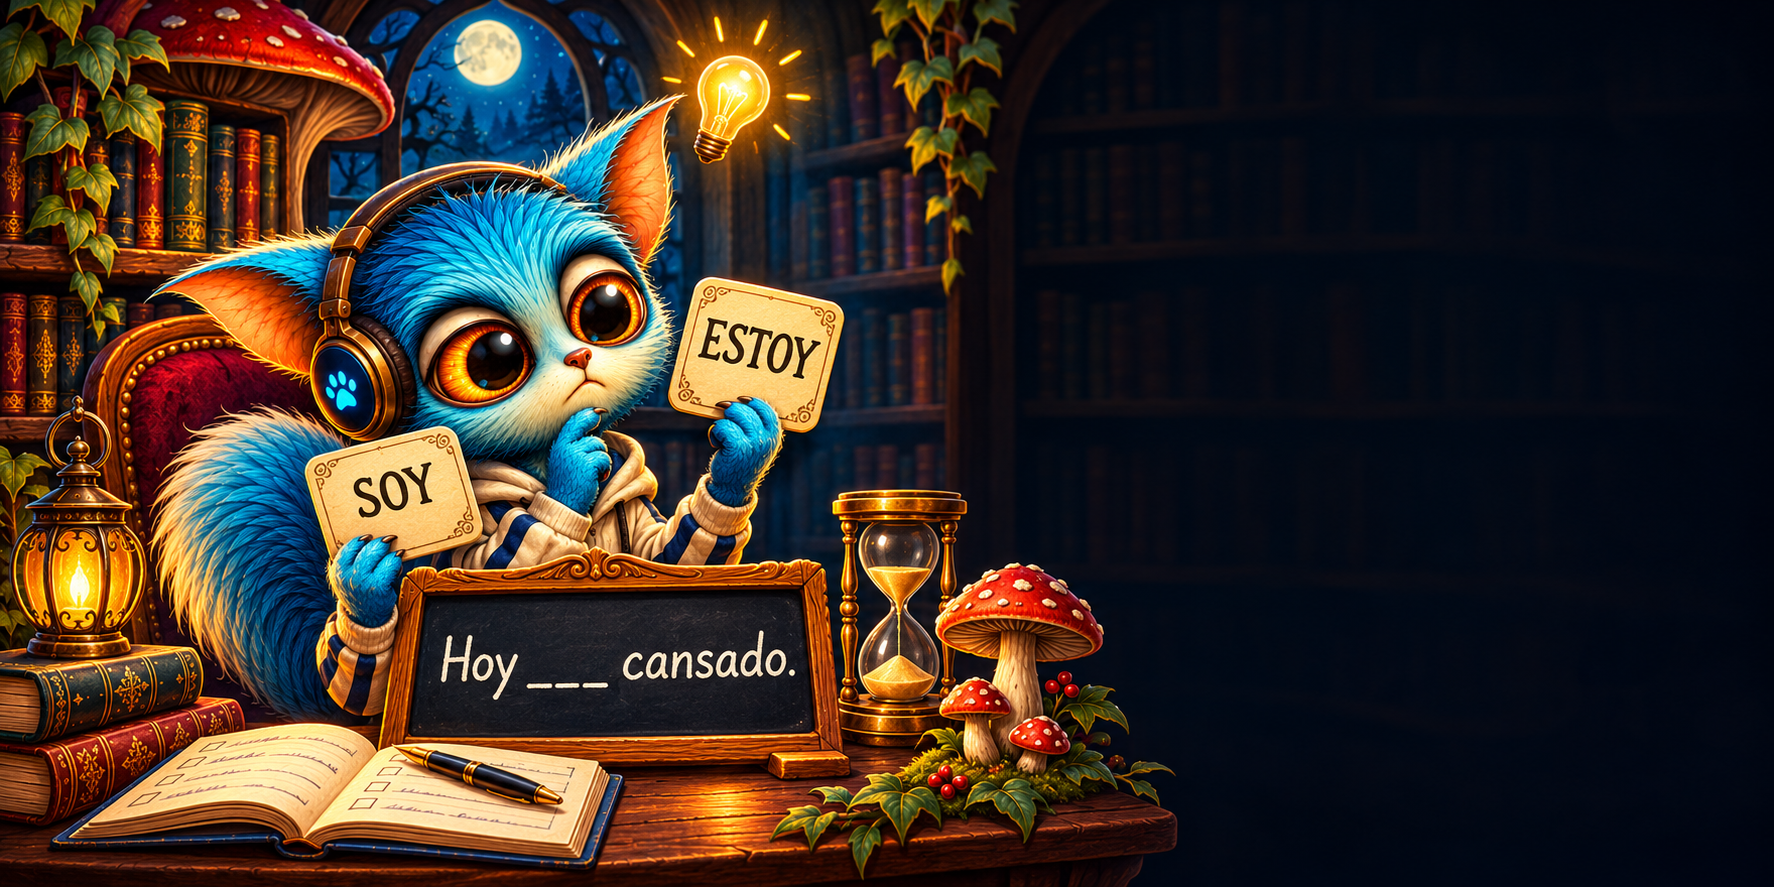
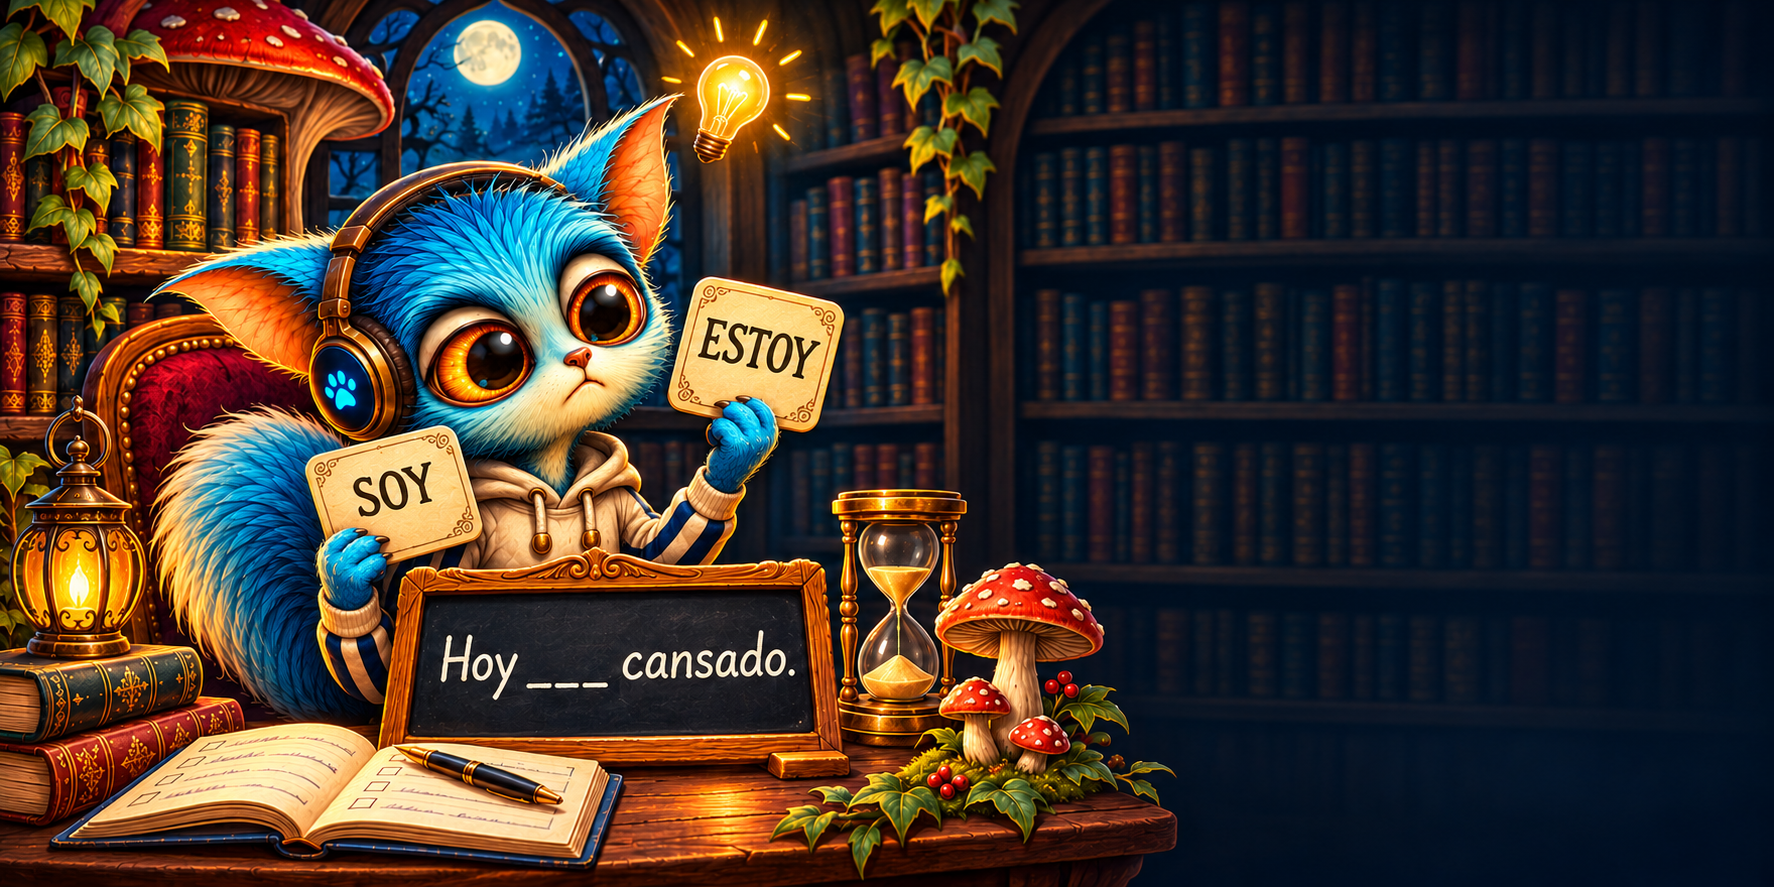
lesser changes

diff --git a/rdm-workshop.css b/rdm-workshop.css
@@ -178,3 +178,8 @@ header{position:relative}
 @media(min-width:651px){.page-banner[data-banner=rules] .page-banner-copy{right:10%}}
 .page-banner[data-banner=rules] .page-banner-copy{text-shadow:-2px -2px 0 #000,2px -2px 0 #000,-2px 2px 0 #000,2px 2px 0 #000,0 -2px 0 #000,0 2px 0 #000,-2px 0 0 #000,2px 0 0 #000,0 3px 12px #000}
 @media(min-width:651px){.page-banner[data-banner=rules] .page-banner-copy{padding-top:70px}}
+/* Lectura e ideas: title higher and a little to the left, outlined in the bougainvillea pink */
+@media(min-width:651px){.page-banner[data-banner=reading] .page-banner-copy{right:4%;justify-content:flex-start;padding-top:9%}}
+.page-banner[data-banner=reading] .page-banner-copy{text-shadow:-2px -2px 0 #d8145a,2px -2px 0 #d8145a,-2px 2px 0 #d8145a,2px 2px 0 #d8145a,0 -2px 0 #d8145a,0 2px 0 #d8145a,-2px 0 0 #d8145a,2px 0 0 #d8145a,0 3px 12px #000a}
+.page-banner[data-banner=reading] .page-banner-copy{text-shadow:-1px -1px 0 #d8145a,1px -1px 0 #d8145a,-1px 1px 0 #d8145a,1px 1px 0 #d8145a,0 -1px 0 #d8145a,0 1px 0 #d8145a,-1px 0 0 #d8145a,1px 0 0 #d8145a,0 0 8px #d8145acc,0 3px 12px #000a}
+.page-banner[data-banner=reading] .eyebrow{text-shadow:0 0 6px #d8145a,0 2px 8px #000c}
